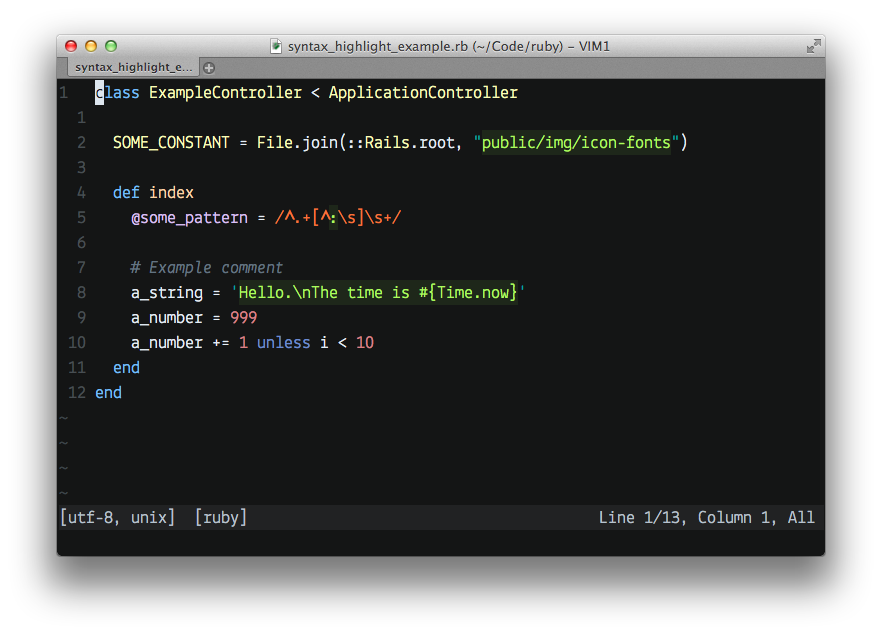
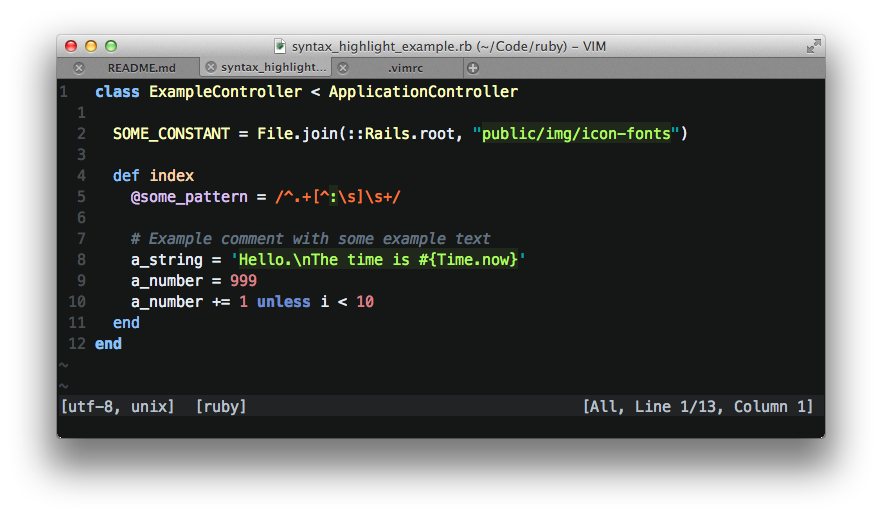
Update screenshot

Changed region(s): [[0.0612, 0.0619, 0.949, 0.6809], [0.0612, 0.7737, 0.949, 0.9284]]

diff --git a/README.md b/README.md
@@ -3,4 +3,4 @@
 A dark color scheme for VIM with bold, bright colors that is nice to your eyes.
 Ajar to IR_Black, but with different comments and colors for numbers.
 
-![Screenshot with Ruby code](https://raw.github.com/cseelus/sleepwalker-vim/master/vim-colors-clearance_preview.png)
+![Screenshot with Ruby code](https://raw.github.com/cseelus/vim-colors-clearance/master/vim-colors-clearance_preview.png)
